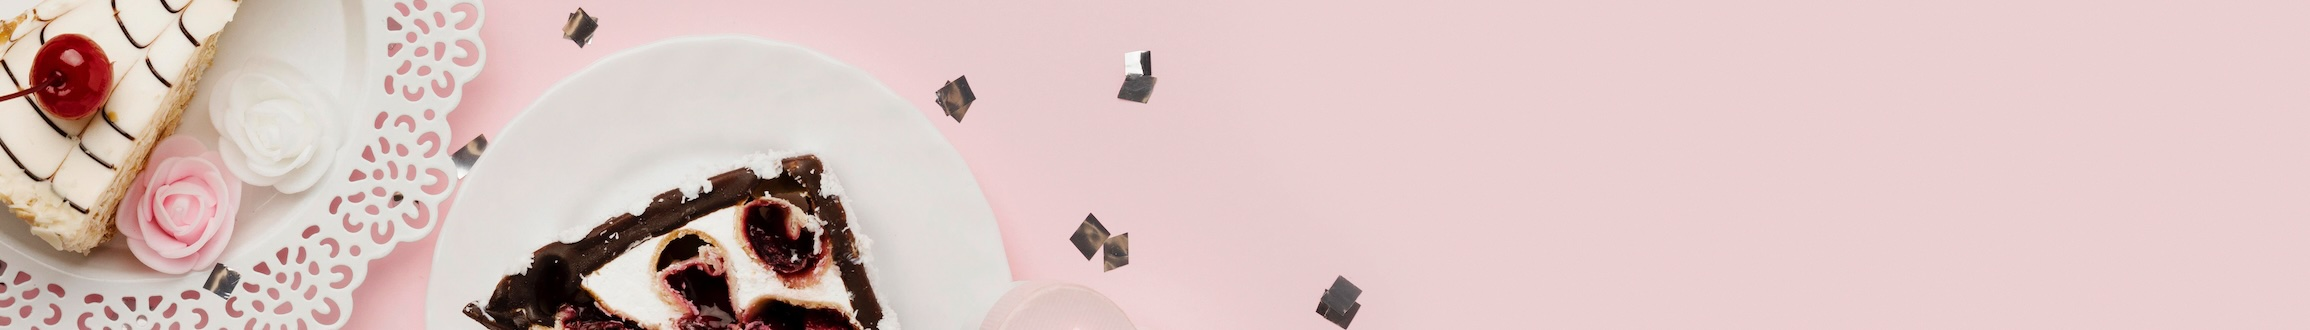
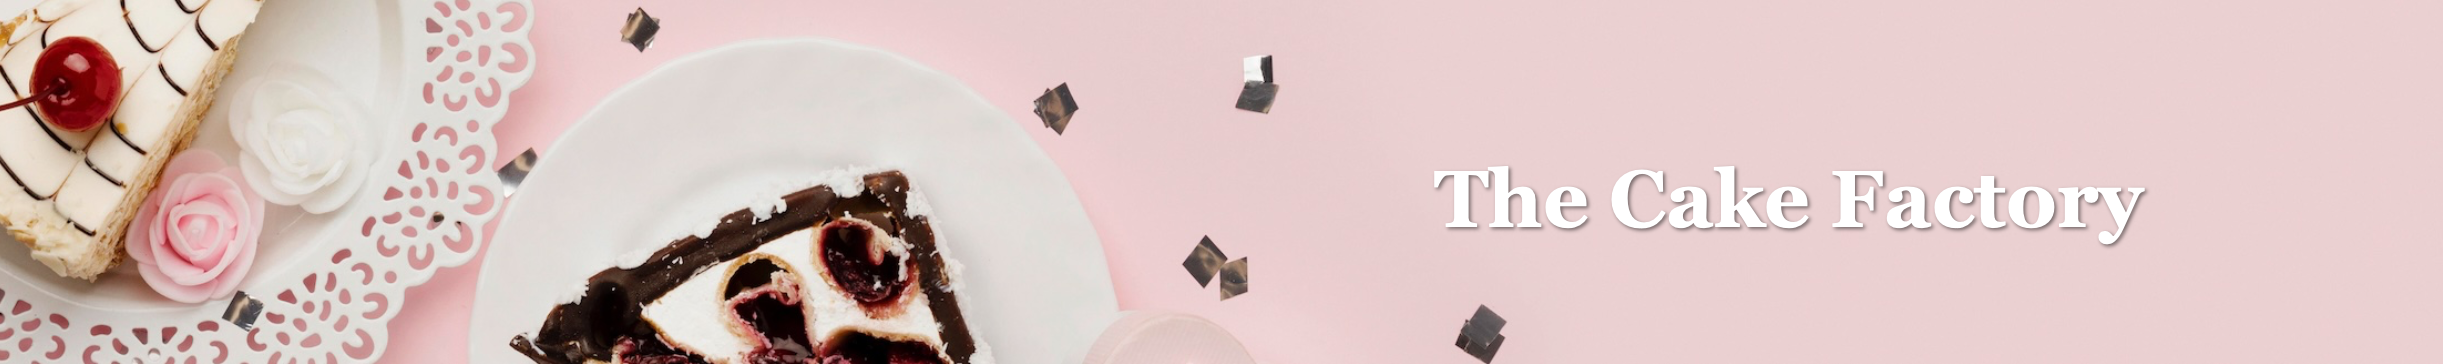
updated navigation bar

diff --git a/stylesheet.css b/stylesheet.css
@@ -15,8 +15,8 @@ body {
 
 .logo-container {
     position: relative;
-    width: 100%;
-    height: 30%;
+    width: auto;
+    height: 300px;
     overflow: hidden; /* Make sure nothing is shown outside of header area */
     margin-bottom: 0px;
 }
@@ -26,20 +26,6 @@ body {
     width: 100%; /* Covers all width */
     height: auto;
     background-size: cover;
-}
-
-/* Company name in header */
-.logo-text {
-    position: absolute; /* Place text on top of logo/picture */
-    top: 50%;
-    left: 70%; /* Move text a little to the right for nicer look */
-    transform: translate(-50%, -50%); /* Make sure it has correct chosen position */
-    color: white;
-    font-size: 3rem;
-    font-weight: bold;
-    text-shadow: 2px 2px 4px rgba(0, 0, 0, 0.5); /* Shadow on text */
-    text-align: center;
-    margin-bottom: 0px;
 }
 
 .navigation {
@@ -120,9 +106,8 @@ section {
 
 .content {
     flex: 1; /* All available height */
-    padding: 20px;
-    margin-bottom: 50px; /* Create space between content and footer */
-    margin-top: 50px; /* Create space between header and content */
+    padding: 10px;
+
 }
 
 .footer {

diff --git a/contact.html b/contact.html
@@ -10,10 +10,9 @@
 <body>
     <header class="logo-container">
       <img src="images/img-header.jpeg" alt="The Cake Factory" class="logo">
-      <div class="logo-text">The Cake Factory</div>
     </header>
   <div class="content">
-    <div class="header">
+    <div class="navigation">
       <a href="index.html">Home</a>
       <a href="about.html">About</a>
       <a href="products.html">Products</a>

diff --git a/products.html b/products.html
@@ -10,11 +10,10 @@
 <body>
   <header class="logo-container">
     <img src="images/img-header.jpeg" alt="The Cake Factory" class="logo">
-    <div class="logo-text">The Cake Factory</div>
   </header>
   
   <div class="content">
-    <div class="header">
+    <div class="navigation">
       <a href="index.html">Home</a>
       <a href="about.html">About</a>
       <a href="products.html">Products</a>

diff --git a/cupcakes.html b/cupcakes.html
@@ -10,10 +10,9 @@
 <body>
     <header class="logo-container">
       <img src="images/img-header.jpeg" alt="The Cake Factory" class="logo">
-      <div class="logo-text">The Cake Factory</div>
     </header>
   <div class="content"></div>
-  <div class="header">
+  <div class="navigation">
     <a href="index.html">Home</a>
     <a href="about.html">About</a>
     <a href="products.html">Products</a>

diff --git a/about.html b/about.html
@@ -9,11 +9,10 @@
 <body>
   <header class="logo-container">
     <img src="images/img-header.jpeg" alt="The Cake Factory" class="logo">
-    <div class="logo-text">The Cake Factory</div>
   </header>
 
   <div class="content">
-    <div class="header">
+    <div class="navigation">
       <a href="index.html">Home</a>
       <a href="about.html">About</a>
       <a href="products.html">Products</a>

diff --git a/index.html b/index.html
@@ -9,10 +9,9 @@
 <body>
   <header class="logo-container">
     <img src="images/img-header.jpeg" alt="The Cake Factory" class="logo">
-    <div class="logo-text">The Cake Factory</div>
   </header>
   <div class="content">
-    <div class="header">
+    <div class="navigation">
       <a href="index.html">Home</a>
       <a href="about.html">About</a>
       <a href="products.html">Products</a>

diff --git a/wedding-cakes.html b/wedding-cakes.html
@@ -10,10 +10,9 @@
 <body>
   <header class="logo-container">
     <img src="images/img-header.jpeg" alt="The Cake Factory" class="logo">
-    <div class="logo-text">The Cake Factory</div>
   </header>
   <div class="content"></div>
-  <div class="header">
+  <div class="navigation">
     <a href="index.html">Home</a>
     <a href="about.html">About</a>
     <a href="products.html">Products</a>
